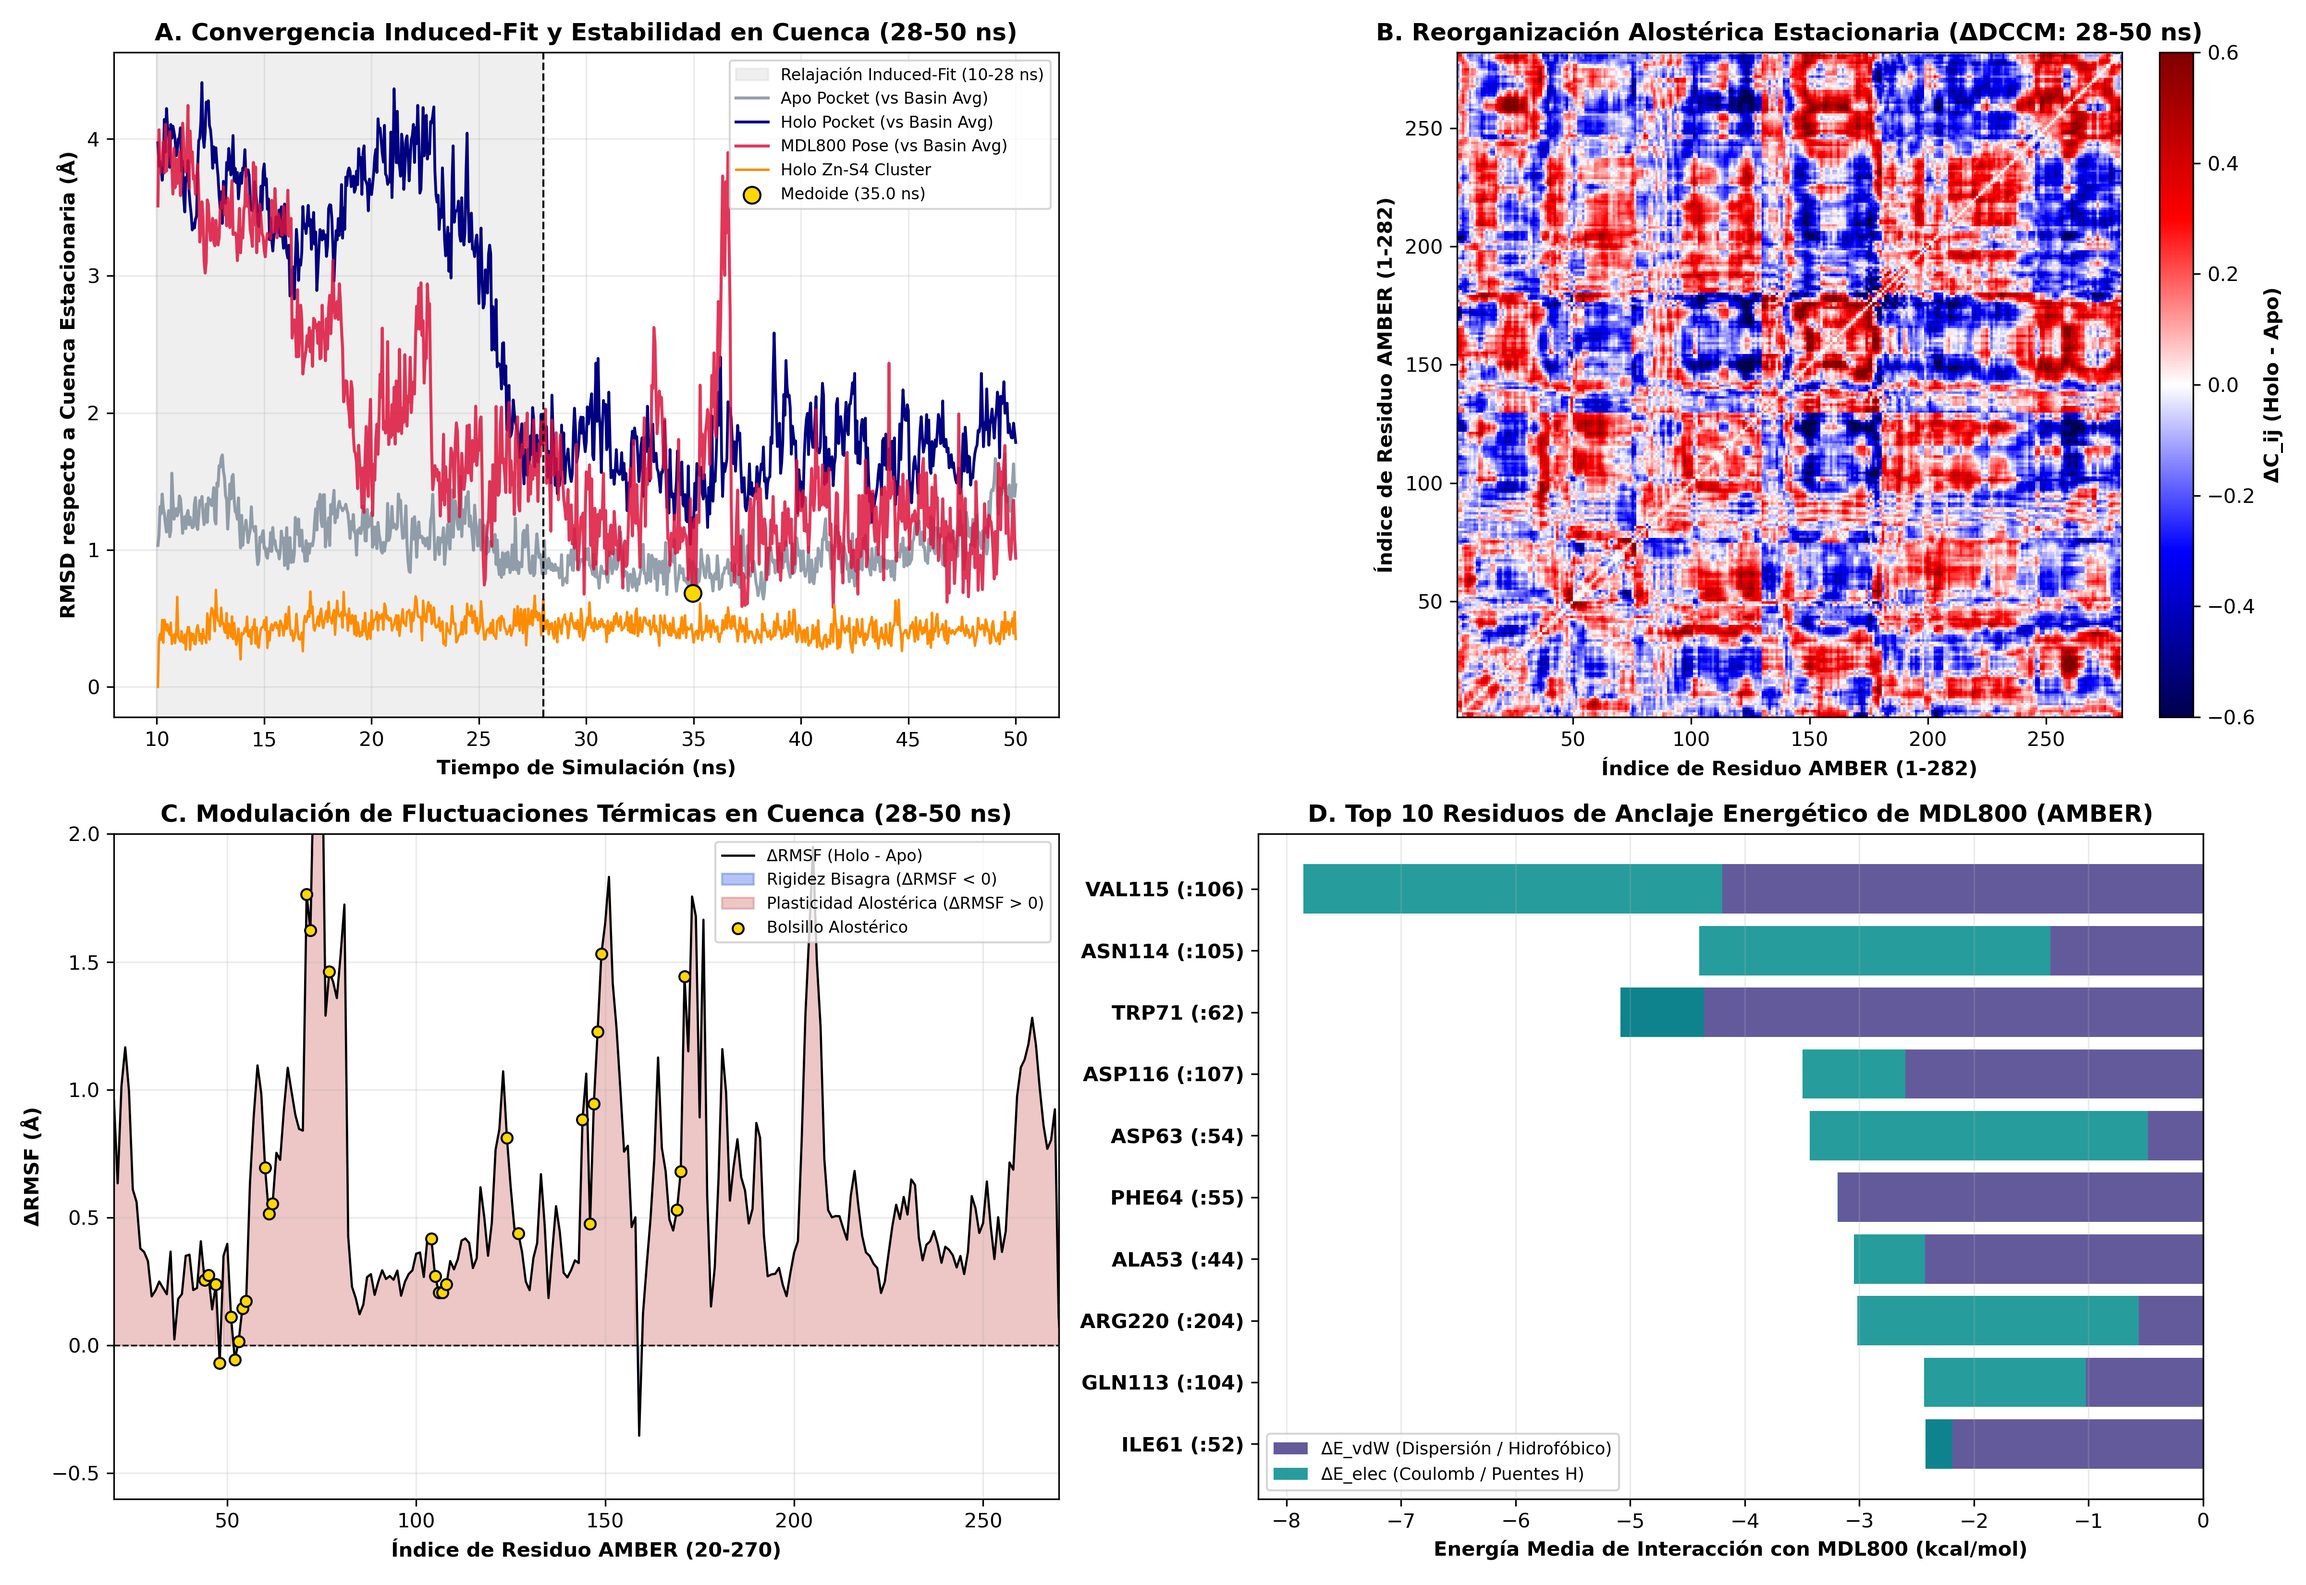
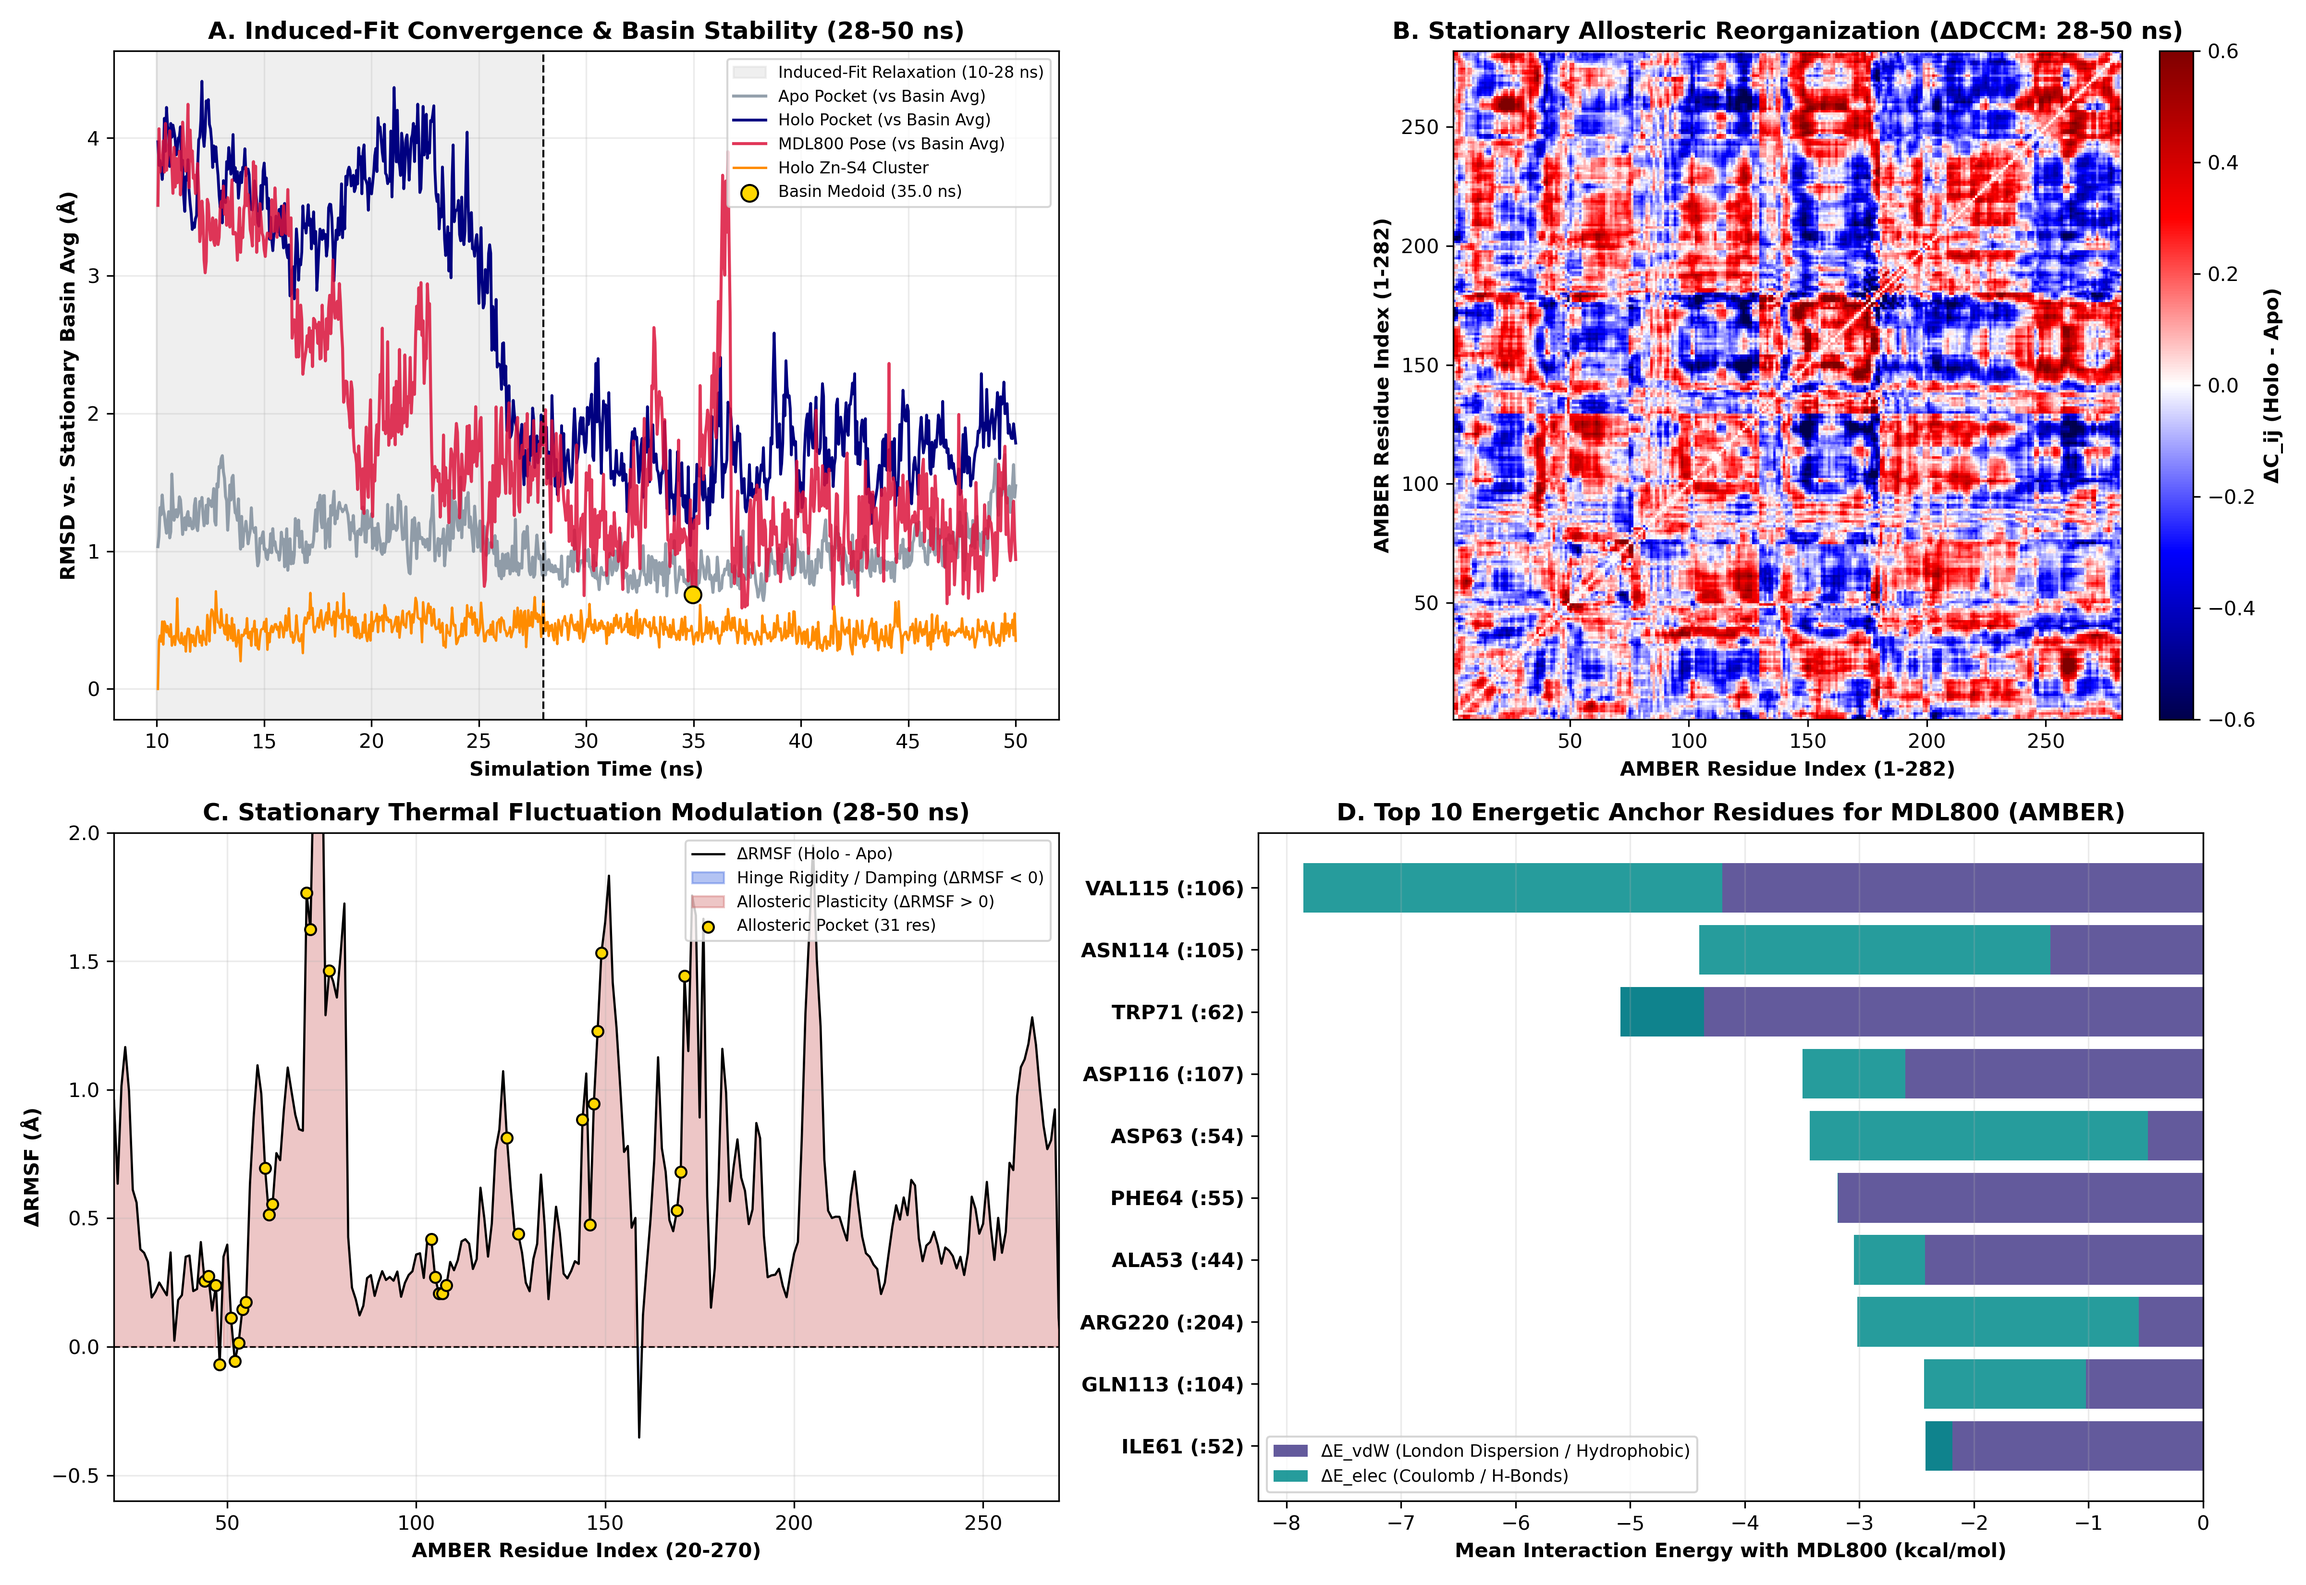
docs: localize 4-panel dashboard to English and fix GitHub math rendering

diff --git a/scripts/analyze_allosteric_rescue.py b/scripts/analyze_allosteric_rescue.py
@@ -281,25 +281,25 @@ gs = fig.add_gridspec(2, 2, height_ratios=[1, 1])
 
 # Panel A: RMSD y Medoide
 ax1 = fig.add_subplot(gs[0, 0])
-ax1.axvspan(10.0, 28.0, color="lightgray", alpha=0.35, label="Relajación Induced-Fit (10-28 ns)")
+ax1.axvspan(10.0, 28.0, color="lightgray", alpha=0.35, label="Induced-Fit Relaxation (10-28 ns)")
 ax1.plot(time_ns, apo_rmsd["POCKET_RMSD"], label="Apo Pocket (vs Basin Avg)", color="slategray", alpha=0.75)
 ax1.plot(time_ns, holo_rmsd["POCKET_RMSD"], label="Holo Pocket (vs Basin Avg)", color="navy", linewidth=1.4)
 ax1.plot(time_ns, holo_rmsd["MDL800_POSE"], label="MDL800 Pose (vs Basin Avg)", color="crimson", alpha=0.85)
 ax1.plot(time_ns, holo_rmsd["ZN_TETRA"], label="Holo Zn-S4 Cluster", color="darkorange", linewidth=1.2)
 ax1.axvline(28.0, color="black", linestyle="--", linewidth=1.0)
-ax1.scatter([medoid_time_ns], [holo_rmsd.loc[best_idx_in_rmsd, "MDL800_POSE"]], color="gold", edgecolor="black", s=70, zorder=6, label=f"Medoide ({medoid_time_ns:.1f} ns)")
-ax1.set_xlabel("Tiempo de Simulación (ns)", fontweight="bold")
-ax1.set_ylabel("RMSD respecto a Cuenca Estacionaria (Å)", fontweight="bold")
-ax1.set_title("A. Convergencia Induced-Fit y Estabilidad en Cuenca (28-50 ns)", fontweight="bold")
+ax1.scatter([medoid_time_ns], [holo_rmsd.loc[best_idx_in_rmsd, "MDL800_POSE"]], color="gold", edgecolor="black", s=70, zorder=6, label=f"Basin Medoid ({medoid_time_ns:.1f} ns)")
+ax1.set_xlabel("Simulation Time (ns)", fontweight="bold")
+ax1.set_ylabel("RMSD vs. Stationary Basin Avg (Å)", fontweight="bold")
+ax1.set_title("A. Induced-Fit Convergence & Basin Stability (28-50 ns)", fontweight="bold")
 ax1.legend(loc="upper right", frameon=True, fontsize=8)
 ax1.grid(alpha=0.25)
 
 # Panel B: ΔDCCM
 ax2 = fig.add_subplot(gs[0, 1])
 im = ax2.imshow(delta_dccm, cmap="seismic", vmin=-0.6, vmax=0.6, origin="lower", extent=[1, 282, 1, 282])
-ax2.set_xlabel("Índice de Residuo AMBER (1-282)", fontweight="bold")
-ax2.set_ylabel("Índice de Residuo AMBER (1-282)", fontweight="bold")
-ax2.set_title("B. Reorganización Alostérica Estacionaria (ΔDCCM: 28-50 ns)", fontweight="bold")
+ax2.set_xlabel("AMBER Residue Index (1-282)", fontweight="bold")
+ax2.set_ylabel("AMBER Residue Index (1-282)", fontweight="bold")
+ax2.set_title("B. Stationary Allosteric Reorganization (ΔDCCM: 28-50 ns)", fontweight="bold")
 cbar = plt.colorbar(im, ax=ax2, fraction=0.046, pad=0.04)
 cbar.set_label("ΔC_ij (Holo - Apo)", fontweight="bold")
 
@@ -308,19 +308,19 @@ ax3 = fig.add_subplot(gs[1, 0])
 res_x = rmsf_df["AMBER_Res"].values
 d_rmsf = rmsf_df["Delta_RMSF"].values
 ax3.plot(res_x, d_rmsf, color="black", linewidth=1.1, label="ΔRMSF (Holo - Apo)")
-ax3.fill_between(res_x, d_rmsf, 0, where=(d_rmsf < 0), color="royalblue", alpha=0.4, label="Rigidez Bisagra (ΔRMSF < 0)")
-ax3.fill_between(res_x, d_rmsf, 0, where=(d_rmsf >= 0), color="indianred", alpha=0.35, label="Plasticidad Alostérica (ΔRMSF > 0)")
+ax3.fill_between(res_x, d_rmsf, 0, where=(d_rmsf < 0), color="royalblue", alpha=0.4, label="Hinge Rigidity / Damping (ΔRMSF < 0)")
+ax3.fill_between(res_x, d_rmsf, 0, where=(d_rmsf >= 0), color="indianred", alpha=0.35, label="Allosteric Plasticity (ΔRMSF > 0)")
 ax3.scatter(
     rmsf_df[rmsf_df["In_Allosteric_Pocket"]]["AMBER_Res"],
     rmsf_df[rmsf_df["In_Allosteric_Pocket"]]["Delta_RMSF"],
-    color="gold", edgecolor="black", zorder=5, s=30, label="Bolsillo Alostérico"
+    color="gold", edgecolor="black", zorder=5, s=30, label="Allosteric Pocket (31 res)"
 )
 ax3.axhline(0, color="black", linestyle="--", linewidth=0.8)
 ax3.set_xlim(20, 270)
 ax3.set_ylim(-0.6, 2.0)
-ax3.set_xlabel("Índice de Residuo AMBER (20-270)", fontweight="bold")
+ax3.set_xlabel("AMBER Residue Index (20-270)", fontweight="bold")
 ax3.set_ylabel("ΔRMSF (Å)", fontweight="bold")
-ax3.set_title("C. Modulación de Fluctuaciones Térmicas en Cuenca (28-50 ns)", fontweight="bold")
+ax3.set_title("C. Stationary Thermal Fluctuation Modulation (28-50 ns)", fontweight="bold")
 ax3.legend(loc="upper right", frameon=True, fontsize=8)
 ax3.grid(alpha=0.25)
 
@@ -329,13 +329,13 @@ ax4 = fig.add_subplot(gs[1, 1])
 top10_ene = ene_df.head(10).iloc[::-1]
 y_pos = np.arange(len(top10_ene))
 labels = [f"{r['PDB_5MF6']} (:{r['AMBER_Res']})" for _, r in top10_ene.iterrows()]
-ax4.barh(y_pos, top10_ene["E_vdW_kcal"], color="darkslateblue", alpha=0.85, label="ΔE_vdW (Dispersión / Hidrofóbico)")
-ax4.barh(y_pos, top10_ene["E_elec_kcal"], left=np.minimum(top10_ene["E_vdW_kcal"], 0), color="darkcyan", alpha=0.85, label="ΔE_elec (Coulomb / Puentes H)")
+ax4.barh(y_pos, top10_ene["E_vdW_kcal"], color="darkslateblue", alpha=0.85, label="ΔE_vdW (London Dispersion / Hydrophobic)")
+ax4.barh(y_pos, top10_ene["E_elec_kcal"], left=np.minimum(top10_ene["E_vdW_kcal"], 0), color="darkcyan", alpha=0.85, label="ΔE_elec (Coulomb / H-Bonds)")
 ax4.set_yticks(y_pos)
 ax4.set_yticklabels(labels, fontweight="bold")
 ax4.axvline(0, color="black", linewidth=0.8)
-ax4.set_xlabel("Energía Media de Interacción con MDL800 (kcal/mol)", fontweight="bold")
-ax4.set_title("D. Top 10 Residuos de Anclaje Energético de MDL800 (AMBER)", fontweight="bold")
+ax4.set_xlabel("Mean Interaction Energy with MDL800 (kcal/mol)", fontweight="bold")
+ax4.set_title("D. Top 10 Energetic Anchor Residues for MDL800 (AMBER)", fontweight="bold")
 ax4.legend(loc="lower left", frameon=True, fontsize=8.5)
 ax4.grid(alpha=0.25, axis="x")
 

diff --git a/README.md b/README.md
@@ -15,8 +15,8 @@ An end-to-end, reproducible computational biophysics workflow orchestrated via *
 
 1. **Quantum Mechanical Metal-Center Parameterization (`Zn-S4`):** The structural Zinc-binding domain (`CYS141`, `CYS144`, `CYS166`, `CYS177` -> `CM1-CM4` + `ZN1`) is parameterized from first principles using **GAMESS-US** (`B3LYP/6-31G*` geometry optimization, Seminario Hessian force-constant projection, and Merz-Kollman `RESP` charge fitting) coupled to `MCPB.py`.
 2. **Apo Conformational Sampling (`50 ns`):** Explicit-solvent molecular dynamics in **OpenMM 8.6** (`AMBER ff19SB` + `OPC` water + `GAFF2` at `300 K` and `1 bar`), followed by K-means clustering (`k = 5`) across the 31-residue allosteric pocket over the equilibrated `10-50 ns` window.
-3. **Boltzmann-Weighted Ensemble Docking (`GNINA 1.3`):** Hybrid physical (`Vina`) and 3D convolutional neural network (`CNNscore` / `CNNaffinity`) docking across the static crystal receptor (`dry`) and the top 4 dynamic *Apo* centroids (`c0-c3`), penalized by conformational free energy ($\Delta G_{\text{conf}} = -RT \ln(p_i / p_0)$).
-4. **Holo-MD Production (`SIRT6_c1 + Zn + MDL800`, `50 ns`) & Allosteric Rescue Analysis:** `GAFF2/AM1-BCC` ligand parameterization via `ANTECHAMBER/sqm`, multi-stage harmonic-shielded `NVT/NPT` equilibration ($k: 10.0 \to 0.0\text{ kcal/mol/\AA}^2$), 50 ns production MD, and stationary-basin (`28-50 ns`) analysis ($\Delta\text{RMSF}$, $\Delta\text{DCCM}$, H-bond network, and exact AMBER non-bonded per-residue energy decomposition).
+3. **Boltzmann-Weighted Ensemble Docking (`GNINA 1.3`):** Hybrid physical (`Vina`) and 3D convolutional neural network (`CNNscore` / `CNNaffinity`) docking across the static crystal receptor (`dry`) and the top 4 dynamic *Apo* centroids (`c0-c3`), penalized by conformational free energy (Δ<i>G</i><sub>conf</sub> = −<i>RT</i> ln(<i>p<sub>i</sub></i> / <i>p</i><sub>0</sub>)).
+4. **Holo-MD Production (`SIRT6_c1 + Zn + MDL800`, `50 ns`) & Allosteric Rescue Analysis:** `GAFF2/AM1-BCC` ligand parameterization via `ANTECHAMBER/sqm`, multi-stage harmonic-shielded `NVT/NPT` equilibration (<i>k</i>: 10.0 → 0.0 kcal/mol/Å²), 50 ns production MD, and stationary-basin (`28-50 ns`) analysis (ΔRMSF, ΔDCCM, H-bond network, and exact AMBER non-bonded per-residue energy decomposition).
 
 ---
 
@@ -53,9 +53,9 @@ Following a cooperative *Induced-Fit* relaxation (`10-28 ns`), the ternary `SIRT
 
 ### 2.3. Top 10 Per-Residue Energetic Anchors of MDL800 (`results/analysis/mdl800_per_residue_energy.csv`)
 
-Exact decomposition of the AMBER Hamiltonian across the stationary basin reveals that **MDL800** binding is driven **79.5% by London dispersion forces ($\Delta E_{\text{vdW}} = -39.65\text{ kcal/mol}$)** against the hydrophobic/aromatic cage (`TRP71`, `VAL115`, `PHE64`, `ILE61`) and **20.5% by electrostatic interactions ($\Delta E_{\text{elec}} = -10.20\text{ kcal/mol}$)** anchored by a persistent bifurcated backbone hydrogen bond to **`VAL115` (`46.6%` occupancy)** and **`ASP116` (`13.6%`)**, alongside long-range *Induced-Fit* recruitment of **`ARG220`**:
+Exact decomposition of the AMBER Hamiltonian across the stationary basin reveals that **MDL800** binding is driven **79.5% by London dispersion forces (Δ<i>E</i><sub>vdW</sub> = −39.65 kcal/mol)** against the hydrophobic/aromatic cage (`TRP71`, `VAL115`, `PHE64`, `ILE61`) and **20.5% by electrostatic interactions (Δ<i>E</i><sub>elec</sub> = −10.20 kcal/mol)** anchored by a persistent bifurcated backbone hydrogen bond to **`VAL115` (`46.6%` occupancy)** and **`ASP116` (`13.6%`)**, alongside long-range *Induced-Fit* recruitment of **`ARG220`**:
 
-| AMBER Index | Crystal Residue (`5MF6`) | $\Delta E_{\text{vdW}}$ (kcal/mol) | $\Delta E_{\text{elec}}$ (kcal/mol) | $\Delta E_{\text{total}}$ (kcal/mol) | Allosteric Pocket (`< 8 Å` Crystal) |
+| AMBER Index | Crystal Residue (`5MF6`) | Δ<i>E</i><sub>vdW</sub> (kcal/mol) | Δ<i>E</i><sub>elec</sub> (kcal/mol) | Δ<i>E</i><sub>total</sub> (kcal/mol) | Allosteric Pocket (`< 8 Å` Crystal) |
 | :---: | :---: | :---: | :---: | :---: | :---: |
 | `:106` | **VAL115** | -4.196 | -3.656 | **-7.852** | True |
 | `:105` | **ASN114** | -1.332 | -3.064 | **-4.396** | True |
